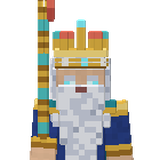
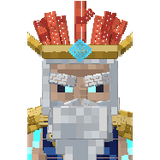
art(boss): シンシア以外のボス・精霊・ユニコーンのモデルを作り直し
ディテール 80（精霊は 100）でプレビュー確認したモデルに置きかえ、アーティファクトと同じ武器を持たせた。

- モデル: テセロス・グライオリア・レギウス・森羅の守護者・フルガリオン・イグニード（2 段階）・ルーンの神兵・ノーデンス・グリムノウル・ホーリー／ダークスピリット・ユニコーンの形とテクスチャを自動生成のものに変更
- モデル: 光る層（glow／bright）と自分で動く部品（MeshAnim）を追加し、ボスが武器を持つ層（HeldWeaponLayer）を追加
- 武器: 森羅の守護者に霊王の杖、ノーデンスにノーデンシア、イグニード第 1 段階にプロミネンスサイズを持たせた。霊王の杖の柄を細くした
- エンティティ: 体のまわりにいつも出していたパーティクルをやめ、モデルの光の粒にした
- 資料: PROJECT_OVERVIEW.md・紹介サイトの画像と説明を更新、生成スクリプトを Claude outputs/tools/boss_models に追加

diff --git a/app.js b/app.js
@@ -1513,7 +1513,7 @@ const BOSSES = [
     adv: '雷鳴を鎮めし者',
     drops: [['thunder_beast_horn', '100%'], ['charged_orb', '30%'], ['yellow_core', '20%'], ['thunder_beast_sword', '10%'], ['thunder_beast_cannon', '10%']] },
   { id: 'ignied', name: '焔魔イグニード', kicker: 'BOSS 6', theme: 'demon',
-    lead: '赤黒い死神のような悪魔。プレイヤーの 1.5 倍ほどの背丈で、燃える鎌のような腕を振るいます。砂漠にそびえるフレイムジグラートの地下、大広間に入ると、赤く燃える魔法陣から姿を現します。',
+    lead: '赤いフードに骸骨の仮面をつけた死神のような悪魔。プレイヤーの 1.5 倍ほどの背丈で、燃える大鎌プロミネンスサイズを手にしています。砂漠にそびえるフレイムジグラートの地下、大広間に入ると、赤く燃える魔法陣から姿を現します。',
     points: ['体力 <b>1500</b>。斬撃のほか、足もとから半径 9 m に広がる<b>全方位の炎</b>、狙いすました<b>炎の連弾</b>（8 発）を使います。',
       '<b>炎の悪魔</b>を 2 体呼び、倒されると呼び直します。<b>爆破コア</b>は相手のまわりに 10 個置かれ、2 秒後に爆発します。足もとに置かれたら動き続けましょう。',
       '頭上にためる<b>巨大な炎の球</b>（5 秒）は、半径 20 m を焼き払います。ためはじめたら距離をとりましょう。',
